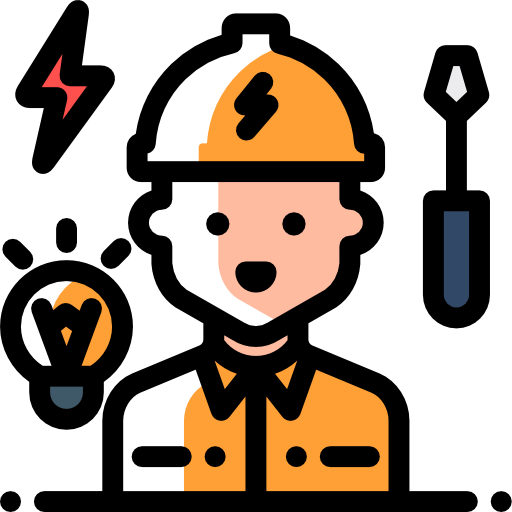
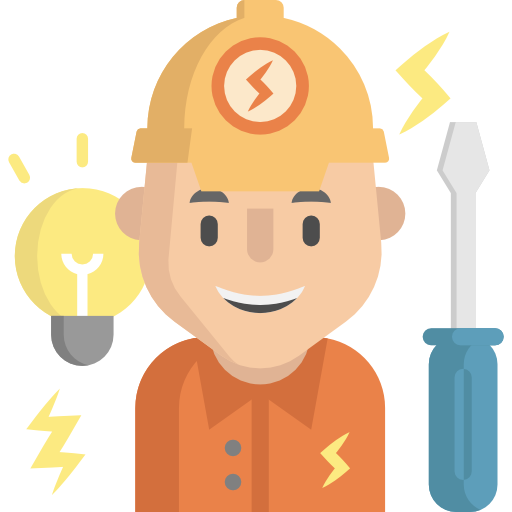
Tela de serviços

diff --git a/General/src/Pages/Services.js b/General/src/Pages/Services.js
@@ -3,7 +3,7 @@ import {
   View,
   Text,
   StyleSheet,
-  Image, ScrollView, TouchableOpacity,
+  Image, ScrollView, TouchableOpacity, FlatList,
 
 } from 'react-native';
 import { LinearGradient } from 'expo-linear-gradient';
@@ -15,144 +15,133 @@ class Services extends Component {
 
   render() {
     return (
-
-
       <ScrollView>
         <View >
           <Text style={styles.Title}>
             Hōshi
          </Text>
 
-
         </View>
         <View style={styles.container} >
-          <View style={styles.iconPadron}>
-            <TouchableOpacity >
-              <LinearGradient start={[0, 0.5]}
-                end={[0.91, 0.5]}
-                colors={['#EFBB35', '#4AAE9B']}
-                style={{ borderRadius: 5 }}>
-                <Image style={{ width: 130, height: 130 }} source={require('../Images/mechanic.png')} />
-                <Text style={{ alignSelf: 'center', fontWeight: 'bold' }}>Mecânicos</Text>
-              </LinearGradient>
-            </TouchableOpacity>
-          </View>
-
-          <View style={styles.iconPadron}>
-            <TouchableOpacity >
-              <LinearGradient start={[0, 0.5]}
-                end={[0.7, 0.5]}
-                colors={['#00ffff', '#4b0082', '#EFBB35']}
-                style={{ borderRadius: 5 }}>
-                <Image style={{ width: 130, height: 130, }} source={require('../Images/plumber.png')} />
-                <Text style={{ alignSelf: 'center', fontWeight: 'bold' }}>Encanadores</Text>
-              </LinearGradient>
-            </TouchableOpacity>
-          </View>
+          <TouchableOpacity >
+            <LinearGradient start={[0, 0.5]}
+              end={[0.91, 0.5,]}
+              colors={['#4AAE9B', '#e6e6fa']}
+              style={styles.iconPadron, { borderRadius: 5, flexDirection: 'row', justifyContent: 'space-around' }}>
+              <Image style={{ width: 70, height: 70 }} source={require('../Images/bartender.png')} />
+              <Text style={{ fontWeight: 'bold', fontSize: 30, marginTop: 15 }}>Barmans</Text>
+            </LinearGradient>
+          </TouchableOpacity>
         </View>
-
         <View style={styles.container} >
-          <View style={styles.iconPadron}>
-            <TouchableOpacity >
-              <LinearGradient start={[0, 0.5]}
-                end={[0.91, 0.5]}
-                colors={['#ff69b4', '#e9967a']}
-                style={{ borderRadius: 8 }}>
-                <Image style={{ width: 130, height: 130 }} source={require('../Images/makeup.png')} />
-                <Text style={{ alignSelf: 'center', fontWeight: 'bold' }}>Makeups</Text>
-              </LinearGradient>
-            </TouchableOpacity>
-          </View>
-
-          <View style={styles.iconPadron}>
-            <TouchableOpacity >
-              <LinearGradient start={[0, 0.5]}
-                end={[0.91, 0.5]}
-                colors={['#00ffff', '#e9967a']}
-                style={{ borderRadius: 5 }}>
-                <Image style={{ width: 130, height: 130, }} source={require('../Images/electrician.png')} />
-                <Text style={{ alignSelf: 'center', fontWeight: 'bold' }}>Eletricitas</Text>
-              </LinearGradient>
-            </TouchableOpacity>
-          </View>
+          <TouchableOpacity >
+            <LinearGradient start={[0, 0.5]}
+              end={[0.91, 0.5,]}
+              colors={['#ba55d3', '#f4a460']}
+              style={styles.iconPadron, { borderRadius: 5, flexDirection: 'row', justifyContent: 'space-around' }}>
+              <Image style={{ width: 70, height: 70 }} source={require('../Images/hairstylist.png')} />
+              <Text style={{ fontWeight: 'bold', fontSize: 30, marginTop: 15 }}>Cabelereiras</Text>
+            </LinearGradient>
+          </TouchableOpacity>
         </View>
-
         <View style={styles.container} >
-          <View style={styles.iconPadron}>
-            <TouchableOpacity >
-              <LinearGradient start={[0, 0.5]}
-                end={[0.91, 0.5]}
-                colors={['#ff69b4', '#e9967a']}
-                style={{ borderRadius: 8 }}>
-                <Image style={{ width: 130, height: 130 }} source={require('../Images/hairstylist.png')} />
-                <Text style={{ alignSelf: 'center', fontWeight: 'bold' }}>Cabeleleiras</Text>
-              </LinearGradient>
-            </TouchableOpacity>
-          </View>
-
-          <View style={styles.iconPadron}>
-            <TouchableOpacity >
-              <LinearGradient start={[0, 0.5]}
-                end={[0.91, 0.5]}
-                colors={['#00ffff', '#e9967a']}
-                style={{ borderRadius: 5 }}>
-                <Image style={{ width: 130, height: 130, }} source={require('../Images/photographer.png')} />
-                <Text style={{ alignSelf: 'center', fontWeight: 'bold' }}>Fotógrafos</Text>
-              </LinearGradient>
-            </TouchableOpacity>
-          </View>
+          <TouchableOpacity >
+            <LinearGradient start={[0, 0.5]}
+              end={[0.91, 0.5,]}
+              colors={['#b0e0e6', '#d2691e']}
+              style={styles.iconPadron, { borderRadius: 5, flexDirection: 'row', justifyContent: 'space-around' }}>
+              <Image style={{ width: 70, height: 70 }} source={require('../Images/confectionerCakes.png')} />
+              <Text style={{ fontWeight: 'bold', fontSize: 30, marginTop: 15 }}>Confeiteros </Text>
+            </LinearGradient>
+          </TouchableOpacity>
         </View>
-
         <View style={styles.container} >
-          <View style={styles.iconPadron}>
-            <TouchableOpacity >
-              <LinearGradient start={[0, 0.5]}
-                end={[0.91, 0.5]}
-                colors={['#ff69b4', '#e9967a']}
-                style={{ borderRadius: 8 }}>
-                <Image style={{ width: 130, height: 130 }} source={require('../Images/brickwall.png')} />
-                <Text style={{ alignSelf: 'center', fontWeight: 'bold' }}>Pedreiros</Text>
-              </LinearGradient>
-            </TouchableOpacity>
-          </View>
-
-          <View style={styles.iconPadron}>
-            <TouchableOpacity >
-              <LinearGradient start={[0, 0.5]}
-                end={[0.91, 0.5]}
-                colors={['#00ffff', '#e9967a']}
-                style={{ borderRadius: 5 }}>
-                <Image style={{ width: 130, height: 130, }} source={require('../Images/waiters.png')} />
-                <Text style={{ alignSelf: 'center', fontWeight: 'bold' }}>Garçons</Text>
-              </LinearGradient>
-            </TouchableOpacity>
-          </View>
+          <TouchableOpacity >
+            <LinearGradient start={[0, 0.5]}
+              end={[0.91, 0.5,]}
+              colors={['#cd853f', '#ffd700']}
+              style={styles.iconPadron, { borderRadius: 5, flexDirection: 'row', justifyContent: 'space-around' }}>
+              <Image style={{ width: 70, height: 70 }} source={require('../Images/electrician.png')} />
+              <Text style={{ fontWeight: 'bold', fontSize: 30, marginTop: 15 }}>Eletricistas</Text>
+            </LinearGradient>
+          </TouchableOpacity>
         </View>
-
         <View style={styles.container} >
-          <View style={styles.iconPadron}>
-            <TouchableOpacity >
-              <LinearGradient start={[0, 0.5]}
-                end={[0.91, 0.5]}
-                colors={['#ff69b4', '#e9967a']}
-                style={{ borderRadius: 8 }}>
-                <Image style={{ width: 130, height: 130 }} source={require('../Images/Delivery.png')} />
-                <Text style={{ alignSelf: 'center', fontWeight: 'bold' }}>Entregas</Text>
-              </LinearGradient>
-            </TouchableOpacity>
-          </View>
-
-          <View style={styles.iconPadron}>
-            <TouchableOpacity >
-              <LinearGradient start={[0, 0.5]}
-                end={[0.91, 0.5]}
-                colors={['#00ffff', '#e9967a']}
-                style={{ borderRadius: 5 }}>
-                <Image style={{ width: 130, height: 130, }} source={require('../Images/bartender.png')} />
-                <Text style={{ alignSelf: 'center', fontWeight: 'bold' }}>Barman</Text>
-              </LinearGradient>
-            </TouchableOpacity>
-          </View>
+          <TouchableOpacity >
+            <LinearGradient start={[0, 0.5]}
+              end={[0.91, 0.5,]}
+              colors={['#00ced1', '#0000ff']}
+              style={styles.iconPadron, { borderRadius: 5, flexDirection: 'row', justifyContent: 'space-around' }}>
+              <Image style={{ width: 70, height: 70 }} source={require('../Images/plumber.png')} />
+              <Text style={{ fontWeight: 'bold', fontSize: 30, marginTop: 15 }}>Encanadores</Text>
+            </LinearGradient>
+          </TouchableOpacity>
+        </View>
+        <View style={styles.container} >
+          <TouchableOpacity >
+            <LinearGradient start={[0, 0.5]}
+              end={[0.91, 0.5,]}
+              colors={['#3cb371', '#ffff00']}
+              style={styles.iconPadron, { borderRadius: 5, flexDirection: 'row', justifyContent: 'space-around' }}>
+              <Image style={{ width: 70, height: 70 }} source={require('../Images/Delivery.png')} />
+              <Text style={{ fontWeight: 'bold', fontSize: 30, marginTop: 15 }}>Encomendas</Text>
+            </LinearGradient>
+          </TouchableOpacity>
+        </View>
+        <View style={styles.container} >
+          <TouchableOpacity >
+            <LinearGradient start={[0, 0.5]}
+              end={[0.91, 0.5,]}
+              colors={['#708090', '#add8e6']}
+              style={styles.iconPadron, { borderRadius: 5, flexDirection: 'row', justifyContent: 'space-around' }}>
+              <Image style={{ width: 70, height: 70 }} source={require('../Images/photographer.png')} />
+              <Text style={{ fontWeight: 'bold', fontSize: 30, marginTop: 15 }}>Fotográfos</Text>
+            </LinearGradient>
+          </TouchableOpacity>
+        </View>
+        <View style={styles.container} >
+          <TouchableOpacity >
+            <LinearGradient start={[0, 0.5]}
+              end={[0.91, 0.5,]}
+              colors={['#20b2aa', '#6495ed']}
+              style={styles.iconPadron, { borderRadius: 5, flexDirection: 'row', justifyContent: 'space-around' }}>
+              <Image style={{ width: 70, height: 70 }} source={require('../Images/waiters.png')} />
+              <Text style={{ fontWeight: 'bold', fontSize: 30, marginTop: 15 }}>Garçons</Text>
+            </LinearGradient>
+          </TouchableOpacity>
+        </View>
+        <View style={styles.container} >
+          <TouchableOpacity >
+            <LinearGradient start={[0, 0.5]}
+              end={[0.91, 0.5,]}
+              colors={['#ff69b4', '#e9967a']}
+              style={styles.iconPadron, { borderRadius: 5, flexDirection: 'row', justifyContent: 'space-around' }}>
+              <Image style={{ width: 70, height: 70 }} source={require('../Images/makeup.png')} />
+              <Text style={{ fontWeight: 'bold', fontSize: 30, marginTop: 15 }}>Makeup</Text>
+            </LinearGradient>
+          </TouchableOpacity>
+        </View>
+        <View style={styles.container} >
+          <TouchableOpacity >
+            <LinearGradient start={[0, 0.5]}
+              end={[0.91, 0.5,]}
+              colors={[ '#c0c0c0','#696969']}
+              style={styles.iconPadron, { borderRadius: 5, flexDirection: 'row', justifyContent: 'space-around' }}>
+              <Image style={{ width: 70, height: 70 }} source={require('../Images/mechanic.png')} />
+              <Text style={{ fontWeight: 'bold', fontSize: 30, marginTop: 15 }}>Mecânicos</Text>
+            </LinearGradient>
+          </TouchableOpacity>
+        </View>
+        <View style={styles.container} >
+          <TouchableOpacity >
+            <LinearGradient start={[0, 0.5]}
+              end={[0.91, 0.5,]}
+              colors={['#8b4513', '#dcdcdc']}
+              style={styles.iconPadron, { borderRadius: 5, flexDirection: 'row', justifyContent: 'space-around' }}>
+              <Image style={{ width: 70, height: 70 }} source={require('../Images/Pedreiros.png')} />
+              <Text style={{ fontWeight: 'bold', fontSize: 30, marginTop: 15 }}>Pedreiros</Text>
+            </LinearGradient>
+          </TouchableOpacity>
         </View>
       </ScrollView>
     );
@@ -163,9 +152,14 @@ export default Services;
 
 const styles = StyleSheet.create({
   container: {
-    margin: 20,
+    flex: 1,
+    margin: 5,
     backgroundColor: '#fff',
-    flexDirection: 'row',
+    flexDirection: 'column',
+    justifyContent: 'space-between',
+
+
+
   },
   Title: {
     color: 'black',
@@ -176,12 +170,15 @@ const styles = StyleSheet.create({
 
   },
   iconPadron: {
-    width: 100,
-    height: 100,
+
+    flexDirection: 'row',
+    width: 330,
+    height: 75,
     margin: 10,
     flex: 1,
-    alignItems: 'center',
-    justifyContent: 'center',
+    borderRadius: 4,
+    borderWidth: 0.5,
+
 
 
   }

diff --git a/General/src/Pages/Profile.js b/General/src/Pages/Profile.js
@@ -32,11 +32,11 @@ class Profile extends Component {
       <Container>
         <Header style={{ backgroundColor: '#f1c40f', height: 200 }}>
           <Left style={{ marginBottom: 150 }}>
-            <Icon name="md-menu" style={{ color: 'white' }} />
+            <Icon name="md-menu" style={styles.icon} />
           </Left>
           <Body style={{ alignItems: 'center', marginLeft: 82, marginBottom: 150 }}>
             <Avatar
-              size="xlarge"
+              size="large"
               rounded
               icon={{ name: 'user', type: 'font-awesome' }}
               activeOpacity={0.7}
@@ -45,7 +45,7 @@ class Profile extends Component {
             <Text style={{ color: 'white' }}>Fulaninho xD</Text>
           </Body>
           <Right style={{ marginBottom: 150 }}>
-            <Icon name="md-cog" style={{ color: 'white' }} />
+            <Icon name="md-cog" style={styles.icon}  />
           </Right>
         </Header>
         <SafeAreaView style={styles.container}>
@@ -74,5 +74,9 @@ const styles = StyleSheet.create({
   avatar: {
     justifyContent: 'center',
     alignItems: 'center',
+  },
+  icon:{
+    marginTop:15,
+    color:'#FFF'
   }
 });

diff --git a/General/src/Pages/Login.js b/General/src/Pages/Login.js
@@ -8,3 +8,4 @@ export default function Login() {
     <View />
   );
 }
+
